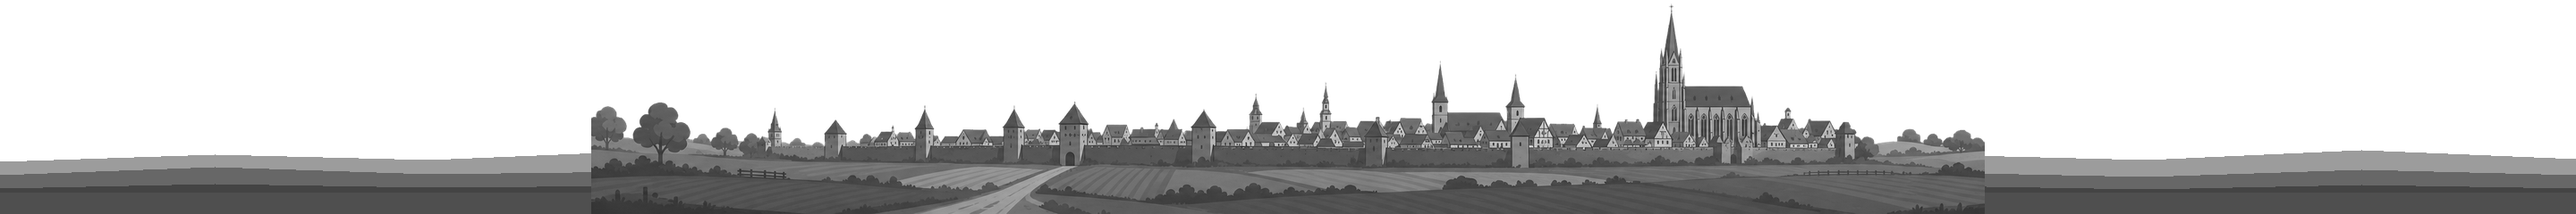
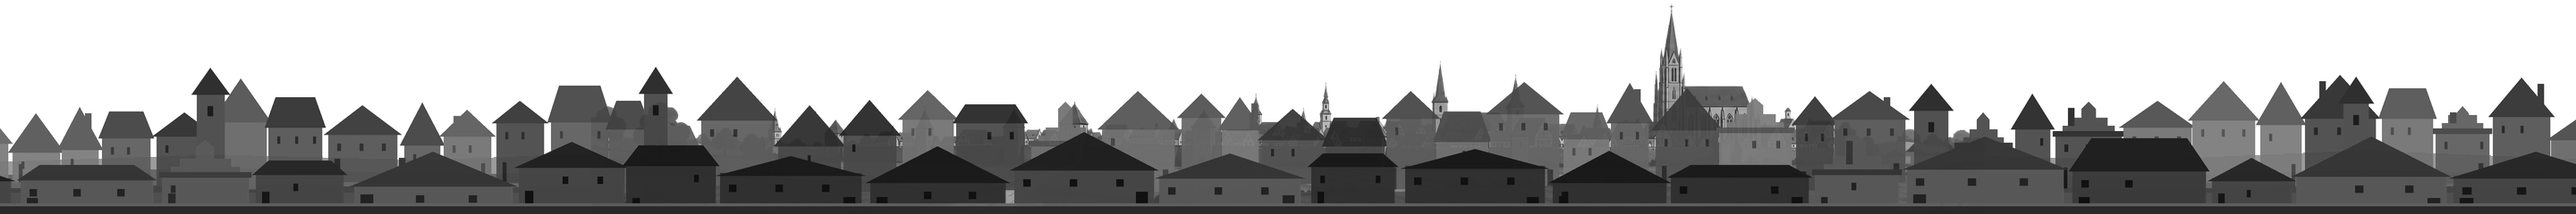
Place settlement tabs within urban horizons

diff --git a/crates/strategic-web/static/css/layout.css b/crates/strategic-web/static/css/layout.css
@@ -124,22 +124,22 @@
   --settlement-horizon-image: url("/static/styles/timber-framed/background/village/river.png");
 }
 .settlement-top-bar[data-building-tier="town"][data-horizon-variant="inland"] {
-  --settlement-horizon-image: url("/static/styles/timber-framed/background/town/inland.png");
+  --settlement-horizon-image: url("/static/styles/timber-framed/background/town/inland.png?v=urban-foregrounds-1");
 }
 .settlement-top-bar[data-building-tier="town"][data-horizon-variant="coastal"] {
-  --settlement-horizon-image: url("/static/styles/timber-framed/background/town/coastal.png");
+  --settlement-horizon-image: url("/static/styles/timber-framed/background/town/coastal.png?v=urban-foregrounds-1");
 }
 .settlement-top-bar[data-building-tier="town"][data-horizon-variant="river"] {
-  --settlement-horizon-image: url("/static/styles/timber-framed/background/town/river.png");
+  --settlement-horizon-image: url("/static/styles/timber-framed/background/town/river.png?v=urban-foregrounds-1");
 }
 .settlement-top-bar[data-building-tier="city"][data-horizon-variant="inland"] {
-  --settlement-horizon-image: url("/static/styles/timber-framed/background/city/inland.png");
+  --settlement-horizon-image: url("/static/styles/timber-framed/background/city/inland.png?v=urban-foregrounds-1");
 }
 .settlement-top-bar[data-building-tier="city"][data-horizon-variant="coastal"] {
-  --settlement-horizon-image: url("/static/styles/timber-framed/background/city/coastal.png");
+  --settlement-horizon-image: url("/static/styles/timber-framed/background/city/coastal.png?v=urban-foregrounds-1");
 }
 .settlement-top-bar[data-building-tier="city"][data-horizon-variant="river"] {
-  --settlement-horizon-image: url("/static/styles/timber-framed/background/city/river.png");
+  --settlement-horizon-image: url("/static/styles/timber-framed/background/city/river.png?v=urban-foregrounds-1");
 }
 
 .settlement-top-bar[data-environment="settlement"] > * {

diff --git a/crates/strategic-web/src/templates/layout.rs b/crates/strategic-web/src/templates/layout.rs
@@ -90,7 +90,7 @@ fn page_shell(title: &str, header: Markup, content: Markup, scripts: ScriptProfi
                 link rel="stylesheet" href="/static/css/base.css?v=environment-14";
                 // Shared CSS
                 link rel="stylesheet" href="/static/css/reset.css";
-                link rel="stylesheet" href="/static/css/layout.css?v=left-rail-scrollbars-3-settlement-silhouettes-2";
+                link rel="stylesheet" href="/static/css/layout.css?v=left-rail-scrollbars-3-settlement-city-foregrounds-3";
                 link rel="stylesheet" href="/static/css/components.css?v=coin-currencies-3";
                 link rel="stylesheet" href="/static/css/strategic.css?v=inventory-browser-15-religion-5-travel-polish-9";
                 link rel="stylesheet" href="/static/css/utilities.css?v=inventory-browser-15";

diff --git a/crates/strategic-web/AGENTS.md b/crates/strategic-web/AGENTS.md
@@ -266,20 +266,29 @@ cartoon village, a textured painting, or a detailed model building.
   slopes visually balanced. Do not show side walls, receding ridges, or
   three-quarter perspective; silhouette variation must remain front-aligned.
 - Keep settlement horizon art in a separate transparent layer behind the
-  service buildings. Confine distant fields, fences, trees, cottages, and
-  church silhouettes to the lower portion so the runtime sky remains visible,
-  and apply the same time-of-day brightness variable to the horizon layer.
+  service buildings. Compose it from nearby settlement fabric in front of a
+  more distant skyline so the service row reads as part of the place, not as a
+  strip of buildings standing outside it. Confine roofs, lanes, quays, trees,
+  and church silhouettes to the lower portion so the runtime sky remains
+  visible, and apply the same time-of-day brightness variable to the horizon
+  layer.
 - Store horizon variants at
   `styles/timber-framed/background/<village|town|city>/<inland|coastal|river>.png`.
   Every horizon is a 2880-by-240 transparent RGBA panorama with subdued
-  grayscale scenery, a shared bottom baseline, and low terrain or water that
-  reaches both horizontal edges. Render it proportionally with `cover`,
-  centered at the bottom; never force it to `100% 100%`. Wider viewports may
-  clip the sides, but must not stretch landmarks.
-- Inland horizons use fields and roads; river horizons use a lateral water band
-  plus a tier-appropriate bridge, quay, or mill; coastal horizons use a Baltic
-  shoreline plus tier-appropriate sheds, wharves, masts, or warehouses. Keep
-  water shallow and the center quiet so the service tabs remain dominant.
+  grayscale scenery and a shared bottom baseline. Meaningful settlement
+  silhouettes must reach both horizontal edges above that baseline; do not
+  place the town on a central island and bridge the sides with flat terrain or
+  water filler. Render it proportionally with `cover`, centered at the bottom;
+  never force it to `100% 100%`. Wider viewports may clip the sides, but must
+  not stretch landmarks or expose visibly simpler edge bands.
+- Inland village horizons may use fields and roads beyond nearby buildings;
+  town and city horizons use rooflines, streets, and courtyards immediately
+  behind the service row. River horizons use a lateral water band plus a
+  tier-appropriate bridge, quay, or mill; coastal horizons use a Baltic
+  shoreline plus tier-appropriate sheds, wharves, masts, or warehouses. In a
+  city, water belongs behind a continuous built-up quay rather than between the
+  viewer and an isolated distant skyline. Keep water shallow and the center
+  quiet enough that the service tabs remain dominant.
 - Reserve the largest uninterrupted facade field for the overlaid service mark.
   Place doors beside that field, normally at a lower outer corner, rather than
   centered beneath it; this keeps the building low and the mark large.
